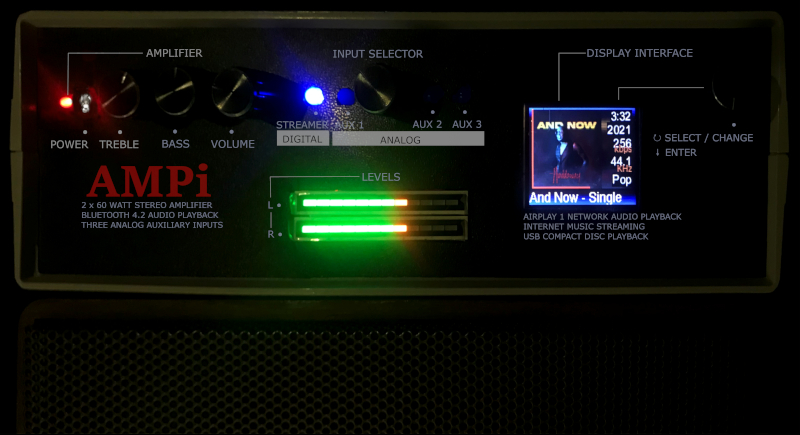
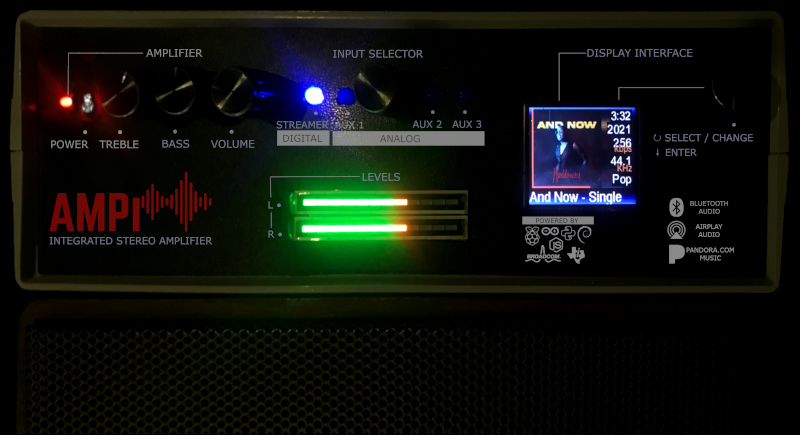
front panel design improved

diff --git a/README.md b/README.md
@@ -15,7 +15,7 @@ First prototype (WIP) with Raspberry Pi Model 3 and an Arduino Nano
 
 * Mini size 250mm x 190mm x 80mm. Maxi sound
 * 2 channels x 100W (Stereo) Class D Audio Amplifier
-* Built-in internet audio streaming device with high-quality Digital-to-Analog Converter (DAC), e.g. FLAC 24-bits 192khz
+* Built-in internet audio streaming device with high-quality Digital-to-Analog Converter (DAC), e.g. 192KHz/24-bit FLAC
 * Built-in pre-amplifier
 * Input audio transformers functioning as a ground loop isolator. This allows for a full galvanic separation between external audio equipment and the DAC and AMPi
 * Computer-controlled interface that controls the screen, manages the power of and the services running on the built-in audio streaming device
